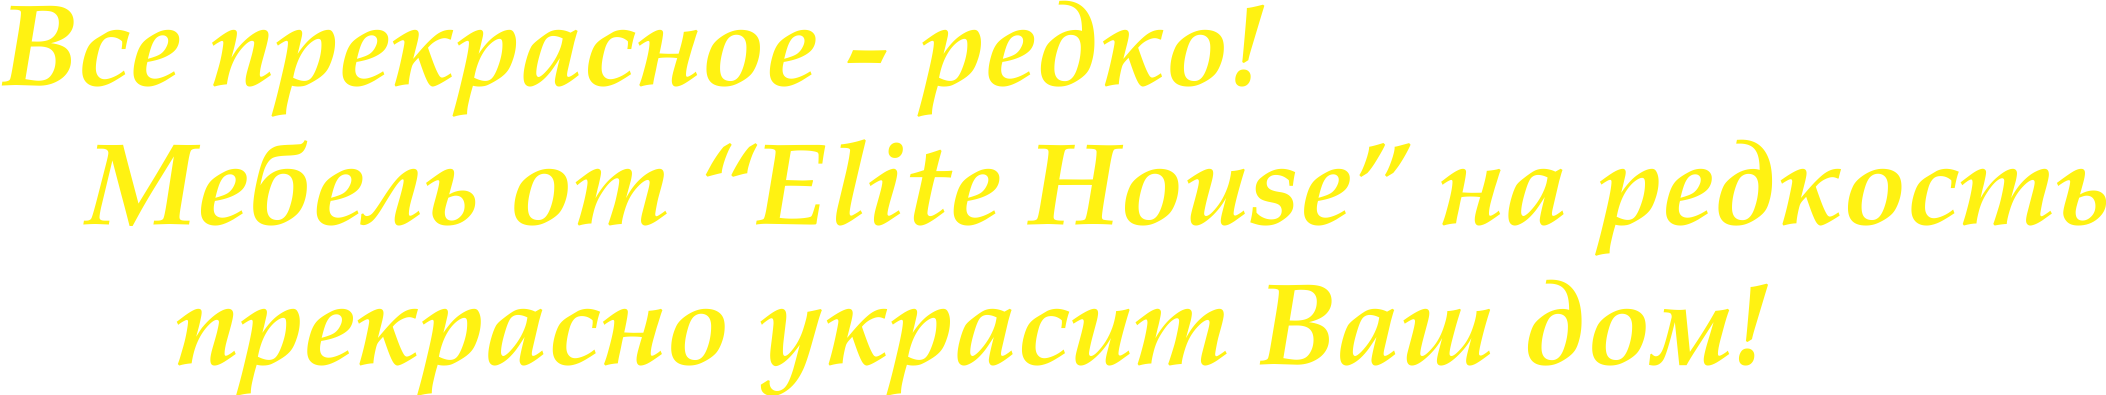
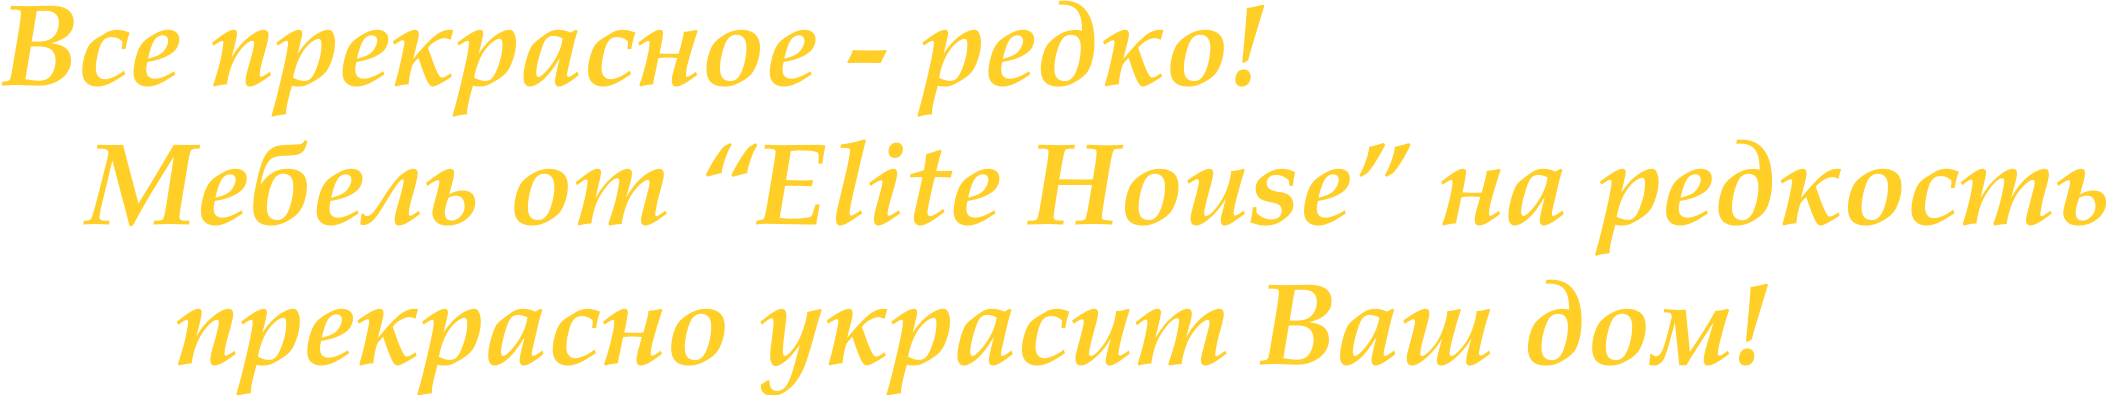
New color scheme, new td background

diff --git a/public/stylesheets/application.css b/public/stylesheets/application.css
@@ -163,7 +163,7 @@ a {
 	font-size: 14px;
 	font-weight: normal;
 	text-decoration: none;
-	color: #FFFF66;
+	color: #FFCC28;
 }
 
 a:active {
@@ -171,7 +171,7 @@ a:active {
 	font-size: 14px;
 	font-weight: normal;
 	text-decoration: none;
-	color: #FFFF66;
+	color: #FFCC28;
 }
 
 a:hover {
@@ -231,11 +231,13 @@ table#furniture_table {
 	border-width:0px;
 	width:100%;
 	margin-top:10%;
+	border-collapse:collapse;
 }
 
 table#furniture_table td{
-	border-width:1px;
-	border-color:#FFFF66;
+	border-width:0px;
+/*	border-color:#FFCC28;*/
+	background: url("../images/td_background.png") no-repeat center center;
 	height :200px;
 	width :200px;
 }
